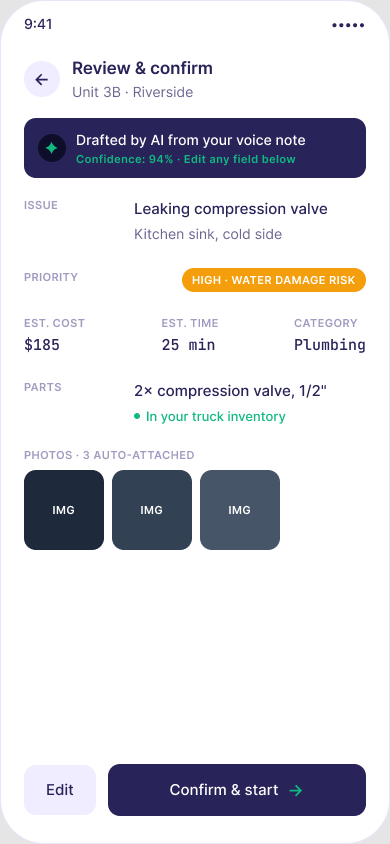
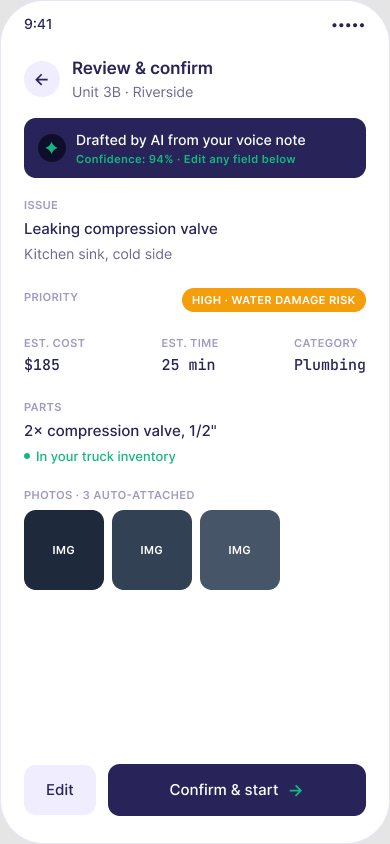
Polish: outlines off, hero constrained, F4 stacked, secondary mockups grouped
Mockup images:
- Removed ring-1 outline that was reading as defective. Replaced with
  a richer 2-layer drop shadow that reads as natural depth.
- Hero image constrained to max-w-[390px] so it never upscales beyond
  the Figma export native size — eliminates blur on wide viewports.

F4 form layout:
- ISSUE and PARTS rows: labels now stack ABOVE values (was beside).
  Cleaner review pattern for the form-style screen.
- Fixed iv/pv container heights that were stuck single-line after the
  vertical layout switch — both subtitle lines render correctly now.

Microsite layout:
- The 4 secondary mockups are now grouped inside a soft pale-lavender
  rounded container. Eliminates the empty-feeling gap between sections
  and visually unifies the four screens as a set.

Changed region(s): [[0.0615, 0.2464, 0.9538, 0.6161], [0.0615, 0.6469, 0.7385, 0.7085], [0.7692, 0.2464, 0.8308, 0.2773]]

diff --git a/app/page.tsx b/app/page.tsx
@@ -132,7 +132,7 @@ export default function Home() {
                 alt={s.label}
                 width={390}
                 height={844}
-                className="relative rounded-[44px] shadow-[0_30px_60px_-15px_rgba(11,37,64,0.25)] ring-1 ring-bg-deep/5 max-w-full h-auto"
+                className="relative rounded-[44px] shadow-[0_24px_48px_-12px_rgba(40,36,90,0.22),0_8px_16px_-8px_rgba(40,36,90,0.12)] max-w-[390px] w-full h-auto"
                 priority
               />
             </div>
@@ -159,34 +159,29 @@ export default function Home() {
           </div>
         ))}
 
-        {/* The other 4 — editorial floating, consistent with hero treatment */}
-        <div className="grid sm:grid-cols-2 gap-y-16 gap-x-10">
-          {SCREENS.filter((s) => !s.hero).map((s) => (
-            <div key={s.src}>
-              <div className="relative flex items-center justify-center py-8 mb-6">
-                {/* Subtle cyan glow — softer than the hero */}
-                <div
-                  aria-hidden
-                  className="absolute inset-0 flex items-center justify-center pointer-events-none"
-                >
-                  <div className="w-[70%] aspect-square bg-accent-ai/10 rounded-full blur-[60px]" />
+        {/* The other 4 — grouped in a soft lavender container */}
+        <div className="rounded-3xl bg-bg-lavender/70 px-6 sm:px-10 lg:px-14 py-12 sm:py-16">
+          <div className="grid sm:grid-cols-2 gap-y-16 sm:gap-y-20 gap-x-10 lg:gap-x-14">
+            {SCREENS.filter((s) => !s.hero).map((s) => (
+              <div key={s.src}>
+                <div className="relative flex items-center justify-center pb-6">
+                  <Image
+                    src={s.src}
+                    alt={s.label}
+                    width={390}
+                    height={844}
+                    className="relative rounded-[44px] shadow-[0_18px_36px_-12px_rgba(40,36,90,0.18),0_6px_12px_-6px_rgba(40,36,90,0.10)] max-w-[320px] w-full h-auto"
+                  />
                 </div>
-                <Image
-                  src={s.src}
-                  alt={s.label}
-                  width={390}
-                  height={844}
-                  className="relative rounded-[44px] shadow-[0_20px_40px_-15px_rgba(11,37,64,0.2)] ring-1 ring-bg-deep/5 max-w-[320px] w-full h-auto"
-                />
+                <div className="text-[11px] font-semibold tracking-[0.18em] text-text-tertiary mb-2 uppercase">
+                  {s.label}
+                </div>
+                <p className="text-[15px] leading-[1.55] text-text-secondary">
+                  {s.desc}
+                </p>
               </div>
-              <div className="text-[11px] font-semibold tracking-[0.18em] text-text-tertiary mb-2 uppercase">
-                {s.label}
-              </div>
-              <p className="text-[15px] leading-[1.55] text-text-secondary">
-                {s.desc}
-              </p>
-            </div>
-          ))}
+            ))}
+          </div>
         </div>
       </section>
 